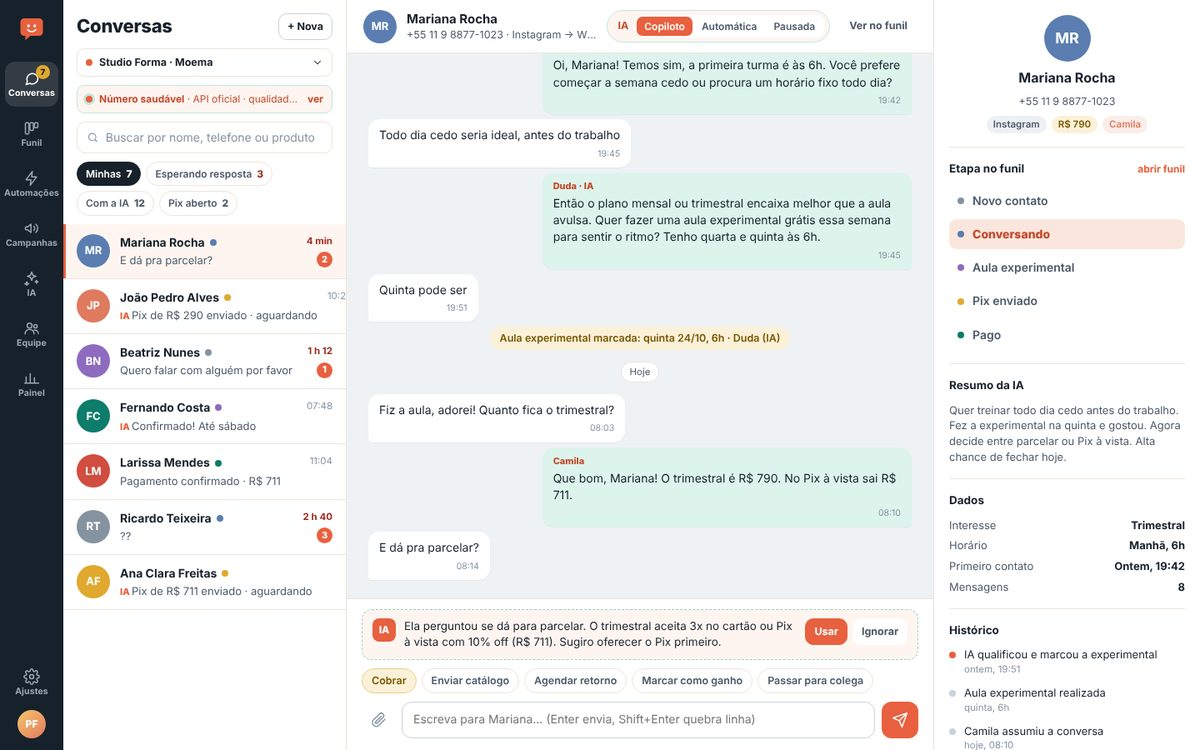
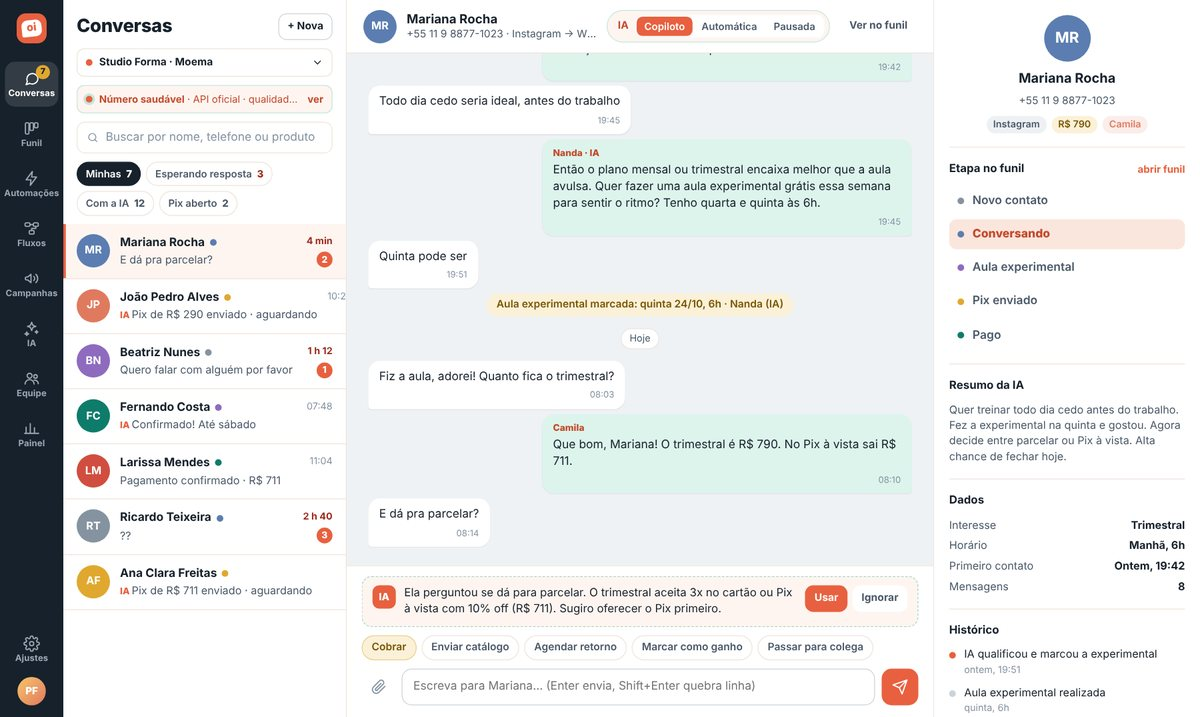
Construtor de fluxos no tour, telas novas com a marca Oi Nanda, Lead Ads e Google Agenda no plano Completo
Claude-Session: https://claude.ai/code/session_01KRFze6YVCJoxjs83eUxDZD

diff --git a/index.html b/index.html
@@ -783,9 +783,10 @@ const tourItems=[
  ['inbox','Conversas','Todas as conversas, com a Nanda sugerindo a resposta e o funil do lado. Cobrar é um botão.','A tela onde o seu time passa o dia: fila por turno, IA copiloto, etapa do funil e Pix sem sair da conversa.'],
  ['funil','Funil','Quem está em cada etapa, quanto vale e há quanto tempo está parado.','Cada coluna mostra as automações ligadas. Clicou no cliente, abriu a conversa.'],
  ['autom','Automações','O que a Nanda faz sozinha quando alguém para no funil.','Regras por etapa e por prazo, em português. Ative, pause ou mude o texto.'],
+ ['fluxos','Construtor de fluxos','Arraste blocos e monte o caminho do cliente: pergunta, agenda, Pix e passar pro time. Sem programar.','Do anúncio ao aluno ativo, num desenho só. Cada bloco mostra quantas pessoas passaram por ele hoje.'],
  ['painel','Painel','Quanto vendeu, quem vendeu, quanto a Nanda fechou sozinha e onde o funil perde.','Um botão “Ativar” ao lado da maior perda do mês.'],
 ];
-function tour(){return `<section style="background:#fff;border-top:1px solid var(--line);border-bottom:1px solid var(--line)"><div class="wrap"><div class="head"><span class="eyb">Por dentro do CRM</span><h2>Por dentro, é simples assim</h2><p>Quatro telas. Nenhum menu escondido. Quem já usa WhatsApp aprende numa tarde.</p></div><div class="tour"><div class="tabs">${tourItems.map((t,i)=>`<button class="tab ${i===0?'on':''}" data-tab="${i}"><b>${t[1]}</b><span>${t[2]}</span></button>`).join('')}</div><div class="shotbox"><img id="tourImg" src="shots/${tourItems[0][0]}.jpg" alt="${tourItems[0][1]}" width="1200" height="750"><div class="cap" id="tourCap">${tourItems[0][3]}</div></div></div></div></section>`}
+function tour(){return `<section style="background:#fff;border-top:1px solid var(--line);border-bottom:1px solid var(--line)"><div class="wrap"><div class="head"><span class="eyb">Por dentro do CRM</span><h2>Por dentro, é simples assim</h2><p>Cinco telas. Nenhum menu escondido. Quem já usa WhatsApp aprende numa tarde.</p></div><div class="tour"><div class="tabs">${tourItems.map((t,i)=>`<button class="tab ${i===0?'on':''}" data-tab="${i}"><b>${t[1]}</b><span>${t[2]}</span></button>`).join('')}</div><div class="shotbox"><img id="tourImg" src="shots/${tourItems[0][0]}.jpg" alt="${tourItems[0][1]}" width="1200" height="750"><div class="cap" id="tourCap">${tourItems[0][3]}</div></div></div></div></section>`}
 function whyNow(){return `<section><div class="wrap"><div class="head"><h2>Por que começar hoje, e não no mês que vem</h2></div><div class="why">
 <div class="wi"><i>1</i><div><b>Cada noite sem resposta é um cliente fechando com quem respondeu</b><span>A Nanda começa a responder no mesmo dia em que você conecta.</span></div></div>
 <div class="wi"><i>2</i><div><b>7 dias grátis, sem cartão: você decide com dado, não com promessa</b><span>Não gostou, não paga nada. Gostou, continua sem reconfigurar.</span></div></div>
@@ -793,7 +794,7 @@ function whyNow(){return `<section><div class="wrap"><div class="head"><h2>Por q
 </div></div></section>`}
 function pricing(seg){const by={studios:'por unidade',clinicas:'por unidade',lancamentos:'por operação',home:'por negócio'}[seg];return `<section id="precos" style="background:#fff;border-top:1px solid var(--line)"><div class="wrap"><div class="head"><span class="eyb">Investimento</span><h2>Escolha o plano que cabe no seu momento. Ele cresce com você.</h2><p>Contratar alguém para cobrir a noite e o fim de semana custa mais de R$ 2.800 por mês. A Nanda começa em R$ 147, time inteiro incluso. Nada por usuário, nada de fidelidade. As mensagens da Meta você paga a preço de custo, e o valor aparece antes de enviar.</p></div><div class="price">
  <div class="plan hot"><span class="tag">Oferta do mês · 20 vagas</span><div><span class="was">R$ 297/mês</span><div class="amt">R$ 147<small>/mês ${by}, para sempre</small></div></div><ul><li>Tudo do plano Completo, por R$ 147 enquanto for cliente</li><li>Implantação assistida: a Nanda configurada com você na primeira semana</li><li>Plantão ao vivo de segunda a sexta: a gente monta suas automações junto com você</li><li>Suporte direto com o time, no WhatsApp</li><li>Cancela quando quiser, pelo sistema</li></ul><a class="btn primary lg" href="#" data-pre>Contratar a Nanda por R$ 147</a><div class="guar"><i>Garantia:</i><span>30 dias. Se a Nanda não responder, agendar e cobrar como está nesta página, você pede o dinheiro de volta no próprio WhatsApp e recebe em 48 h.</span></div></div>
- <div class="plan"><span class="tag" style="background:#EEF1F4;color:var(--ink-2)">Completo</span><div class="amt">R$ 297<small>/mês ${by}</small></div><ul><li>Usuários ilimitados</li><li>WhatsApp oficial + Instagram Direct</li><li>IA inclusa para cerca de 2 mil conversas por mês; acima disso, você define o teto</li><li>Funil, automações e campanhas do seu segmento</li><li>Proposta com aceite registrado, cobrança Pix, cartão e assinatura, com nota fiscal</li><li>Turnos, comissão, painel e coaching do time pela Nanda</li><li>Plantão ao vivo de segunda a sexta</li><li class="x">Unidade adicional: R$ 147/mês</li></ul><a class="btn lg" href="#" data-trial>Testar 7 dias grátis</a></div>
+ <div class="plan"><span class="tag" style="background:#EEF1F4;color:var(--ink-2)">Completo</span><div class="amt">R$ 297<small>/mês ${by}</small></div><ul><li>Usuários ilimitados</li><li>WhatsApp oficial + Instagram Direct</li><li>IA inclusa para cerca de 2 mil conversas por mês; acima disso, você define o teto</li><li>Funil, automações, construtor de fluxos e campanhas do seu segmento</li><li>Integra com Google Agenda e com os formulários de anúncio do Facebook (Lead Ads)</li><li>Proposta com aceite registrado, cobrança Pix, cartão e assinatura, com nota fiscal</li><li>Turnos, comissão, painel e coaching do time pela Nanda</li><li>Plantão ao vivo de segunda a sexta</li><li class="x">Unidade adicional: R$ 147/mês</li></ul><a class="btn lg" href="#" data-trial>Testar 7 dias grátis</a></div>
  <div class="plan dark"><span class="tag">Rede e franquias · 3+ unidades</span><div class="amt">Sob consulta<small>por rede</small></div><ul><li>Cada unidade com número, equipe e tabela própria</li><li>Visão da matriz: vendas, falta e retorno por unidade</li><li>Nanda treinada no padrão da rede, ajustável por unidade</li><li>Gerente de conta e implantação assistida por unidade</li><li>Relatório consolidado toda segunda</li></ul><a class="btn lg white" href="#" data-wa>Falar com a gente</a><span class="foot">Resposta em até 1 dia útil, pelo WhatsApp.</span></div>
 </div><div class="meta-note">Custo da Meta, para referência: conversas que o cliente inicia não custam nada. Mensagens que você inicia (campanha, lembrete fora de 24 h) custam cerca de R$ 0,43 cada e aparecem antes de você enviar.</div></div></section>`}
 function faq(f){return `<section id="faq"><div class="wrap"><div class="head c"><h2>O que perguntam antes de começar</h2></div><div class="faq">${f.map(x=>`<details><summary>${x[0]}</summary><p>${x[1]}</p></details>`).join('')}</div></div></section>`}
